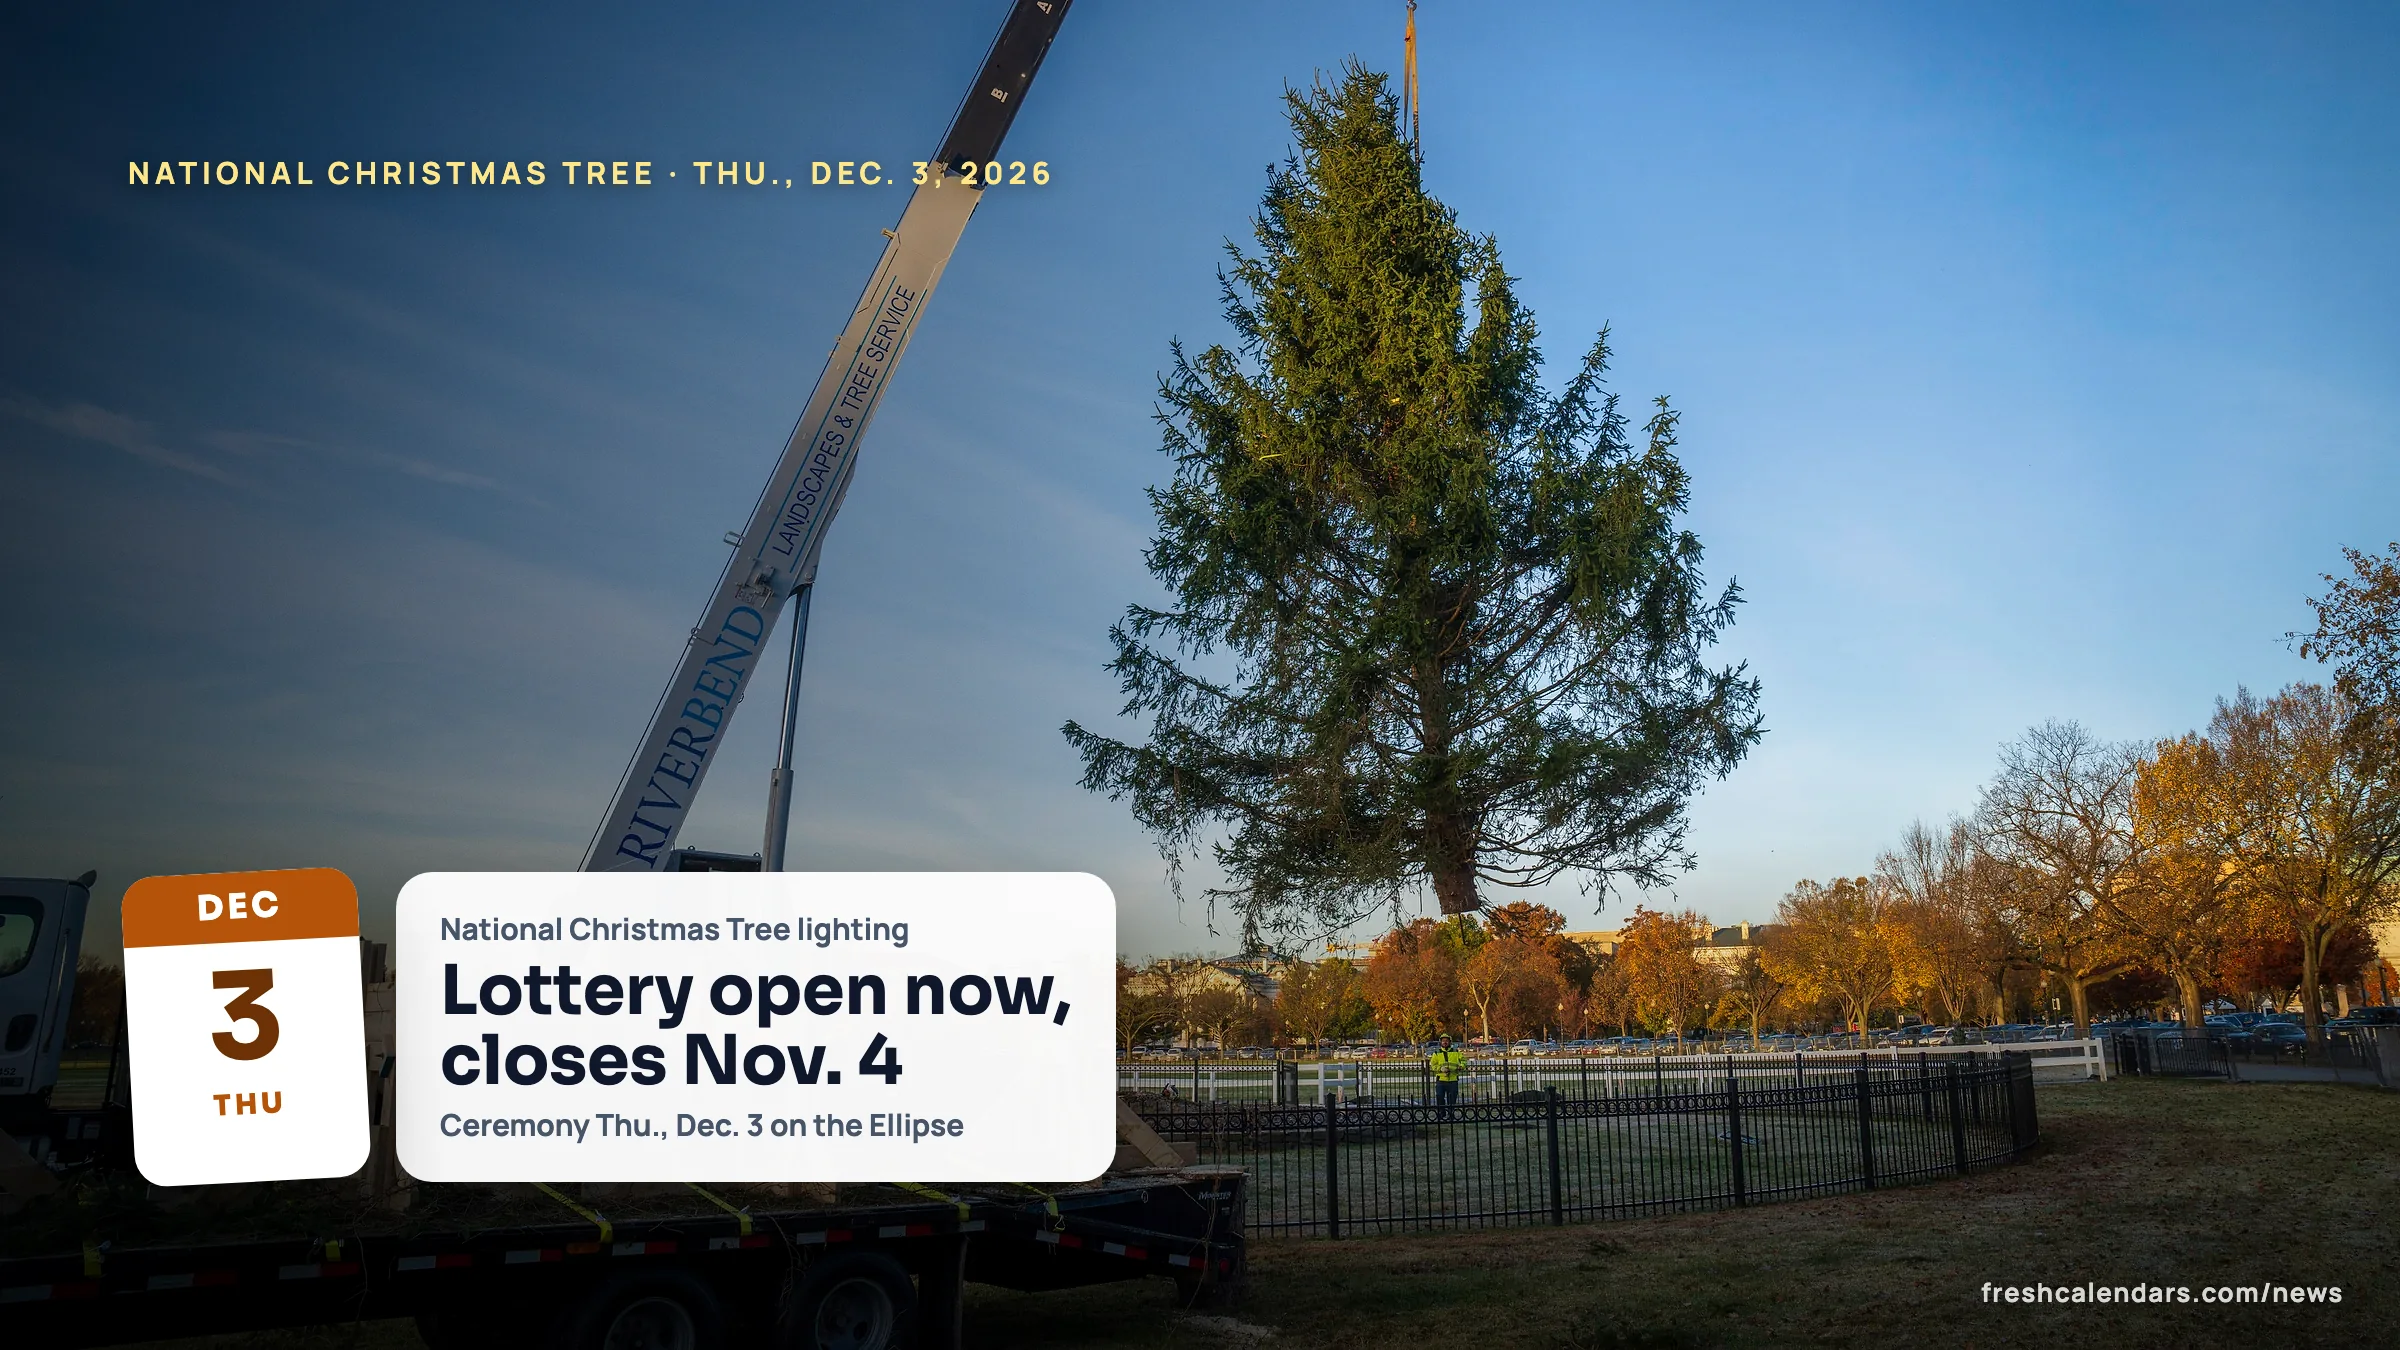
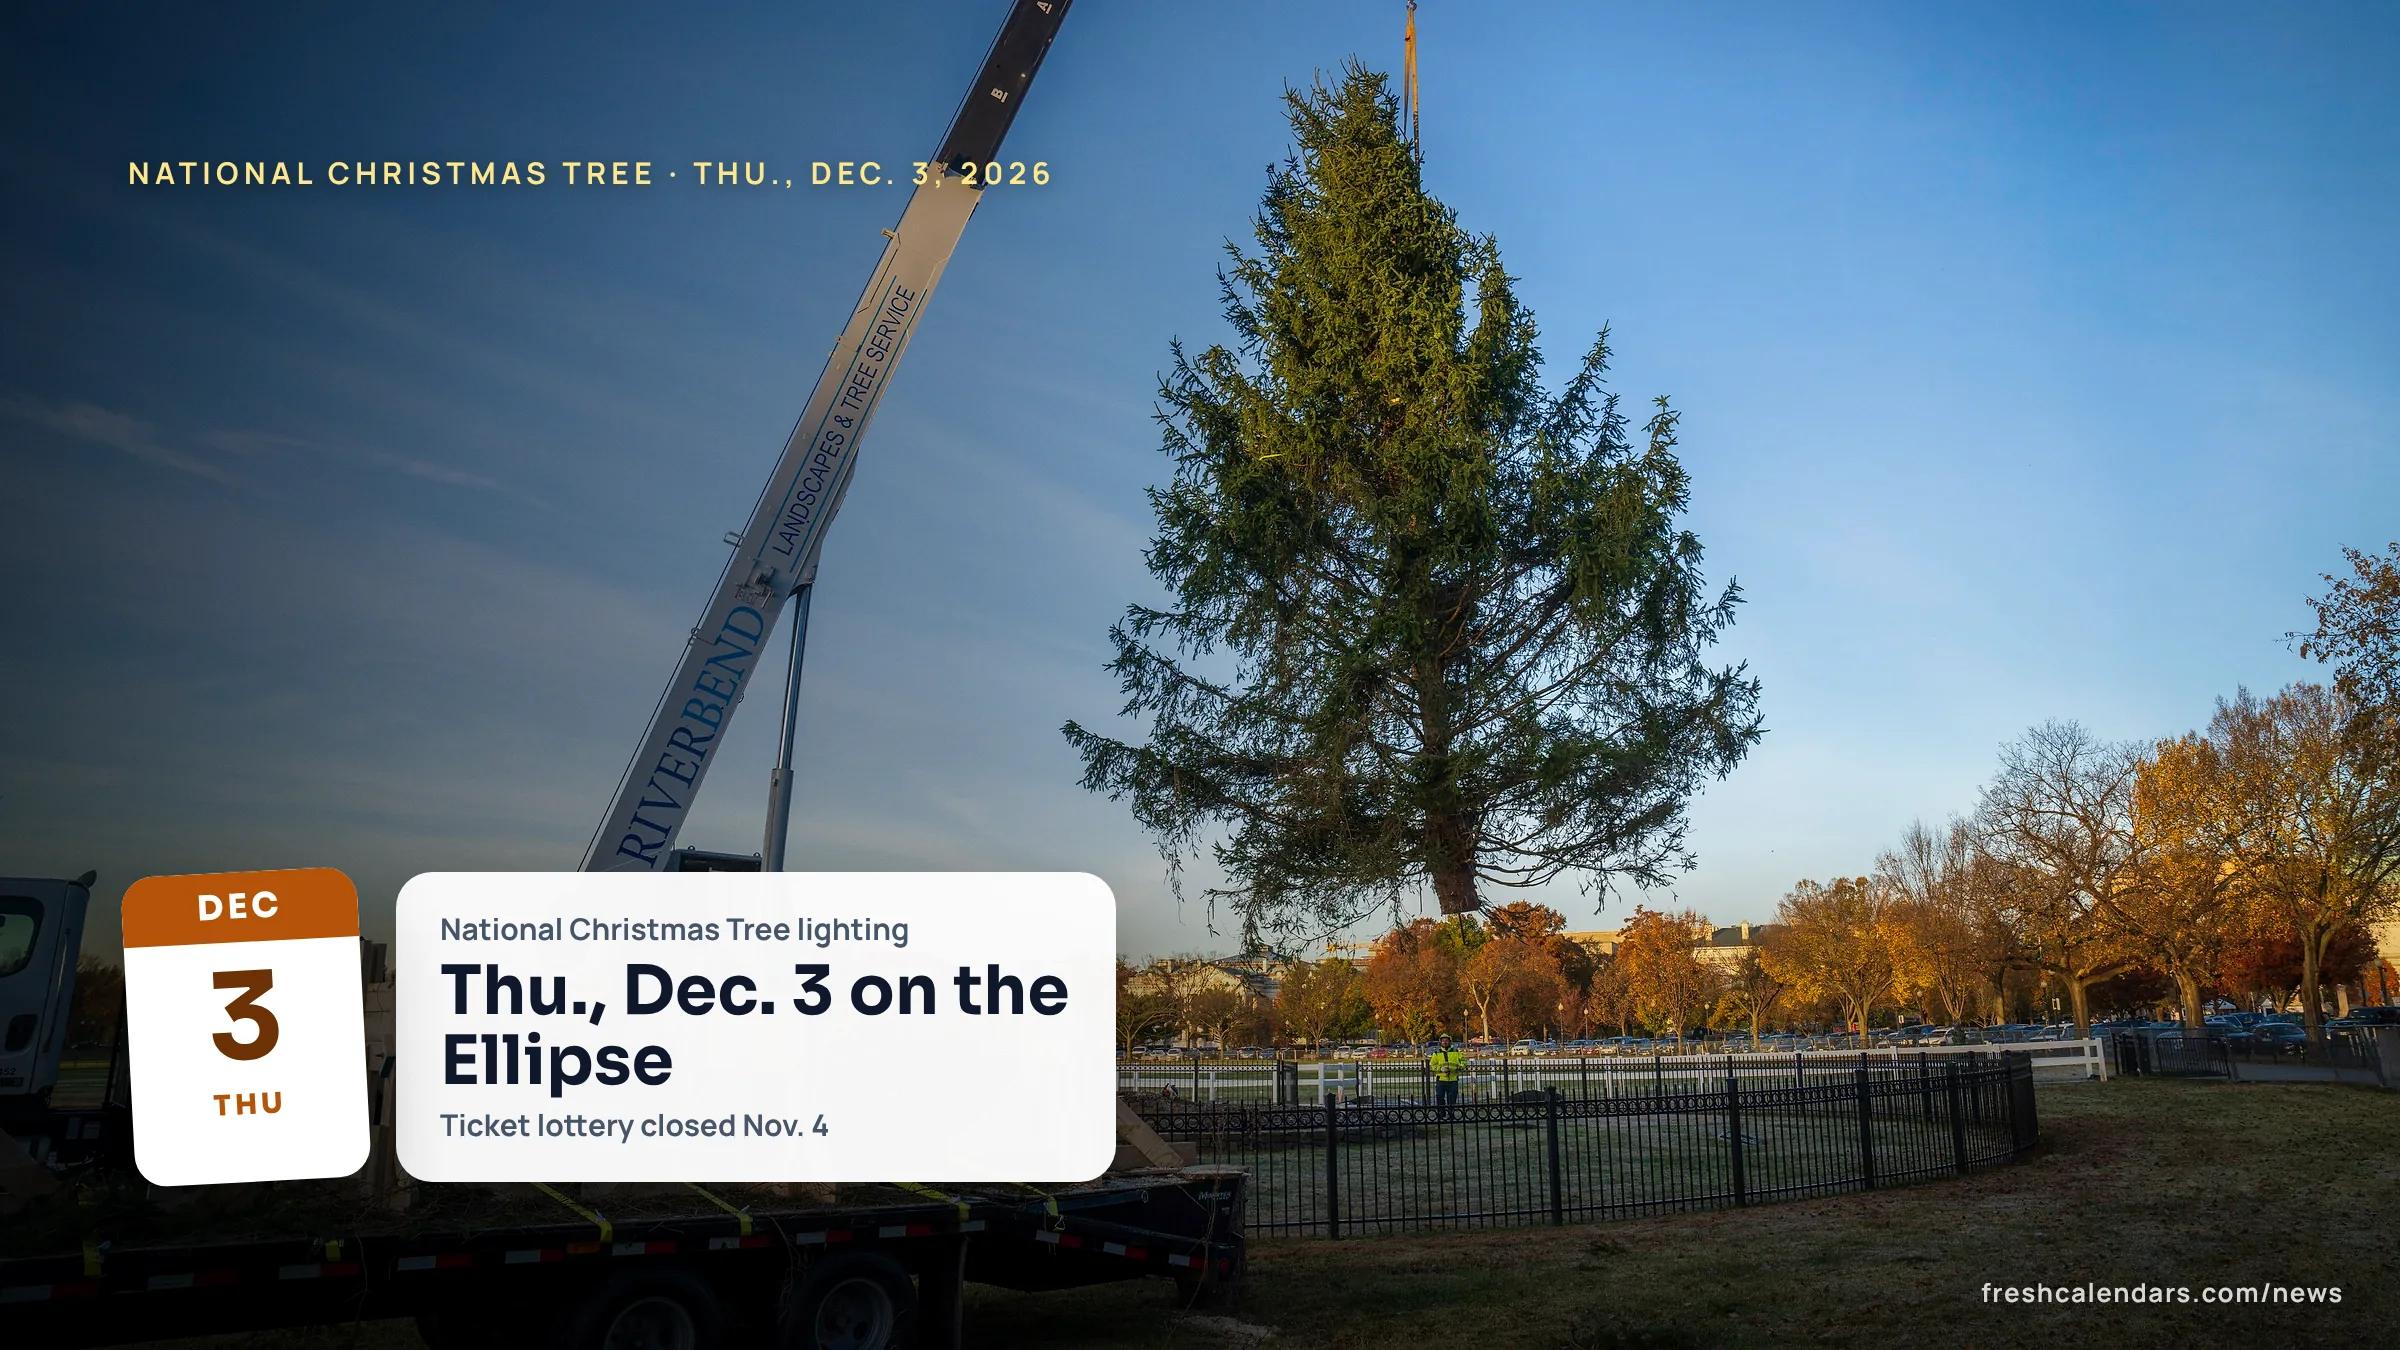
news(update): National Christmas Tree hero card no longer says the lottery is open
Claude-Session: https://claude.ai/code/session_01YBn8zc69SkibUeUXUD7BLa

Changed region(s): [[0.1875, 0.7156, 0.4688, 0.84]]

diff --git a/apps/news/src/content/articles/2026/10/national-christmas-tree-lighting-2026-ticket-lottery-october-28.md b/apps/news/src/content/articles/2026/10/national-christmas-tree-lighting-2026-ticket-lottery-october-28.md
@@ -79,7 +79,7 @@ assets:
   overlay: true
   kicker: "National Christmas Tree · Thu., Dec. 3, 2026"
   date: "2026-12-03"
-  card: { top: "National Christmas Tree lighting", big: "Lottery open now, closes Nov. 4", bottom: "Ceremony Thu., Dec. 3 on the Ellipse" }
+  card: { top: "National Christmas Tree lighting", big: "Thu., Dec. 3 on the Ellipse", bottom: "Ticket lottery closed Nov. 4" }
   printable:
     noKit: "Mixed dated timeline from NPS, NPF and Capitol tree sources; the fact sheet has no verbatim source quotes for the kit data."
     slug: national-christmas-tree-2026-timeline
